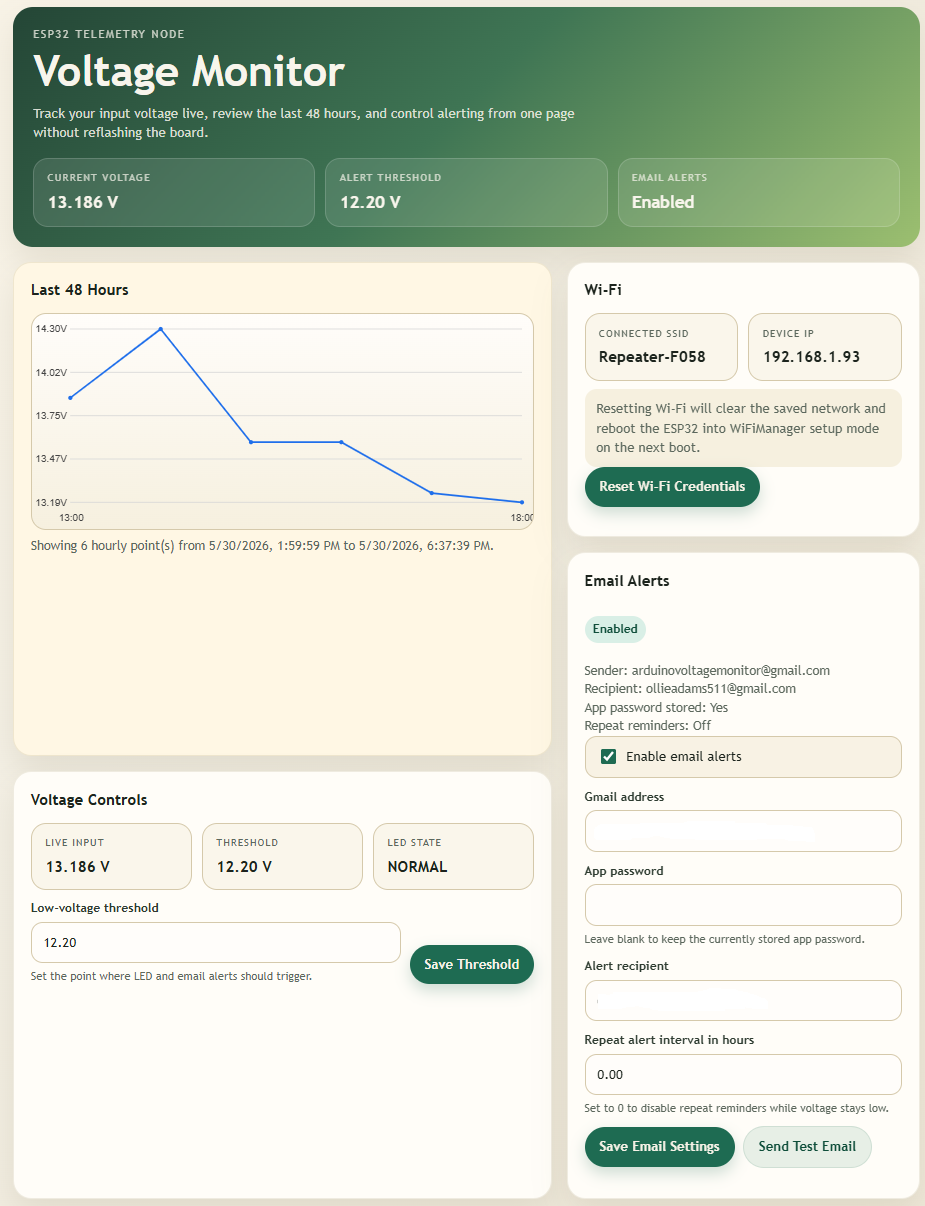
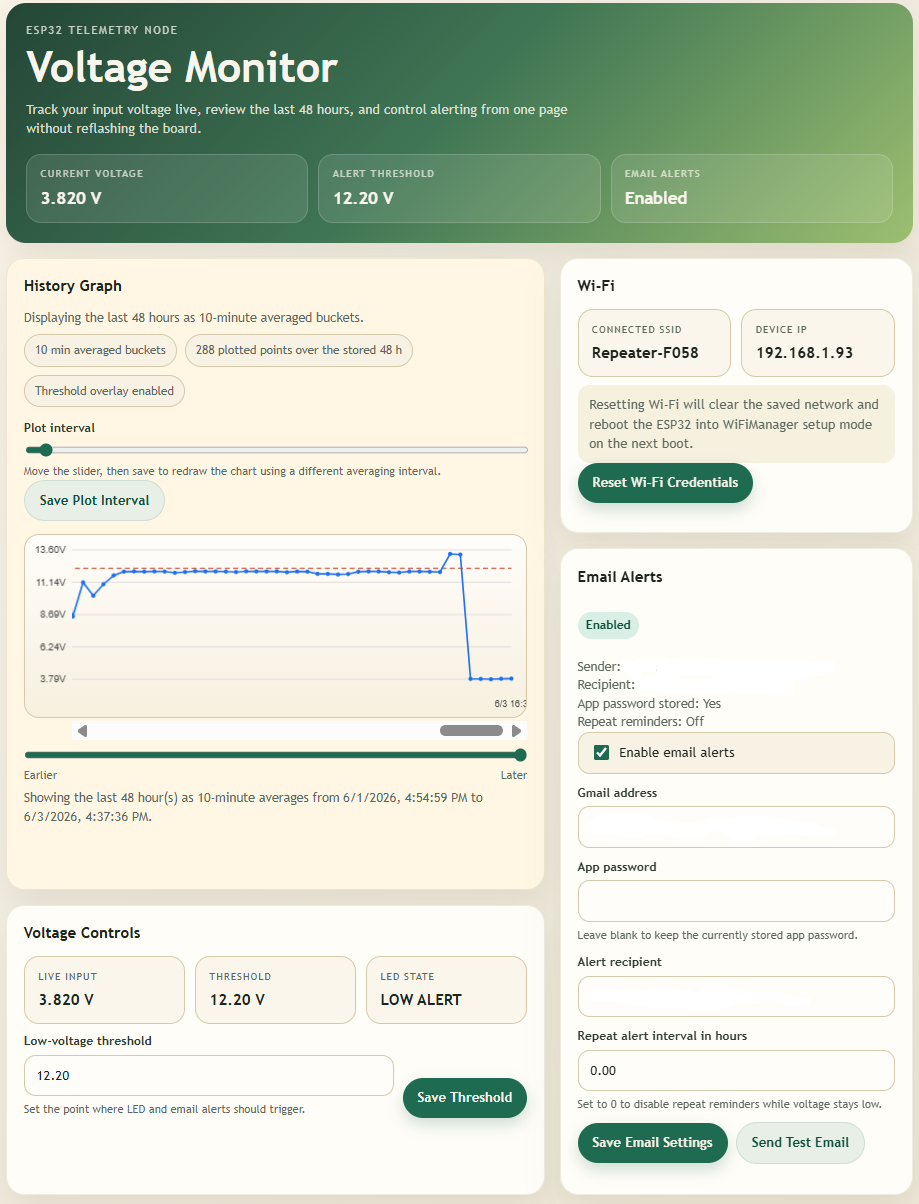
updated todo and how to files for github pages static site

diff --git a/HOWTO_PC_GIT_SYNC.md b/HOWTO_PC_GIT_SYNC.md
@@ -1,0 +1,266 @@
+# How To Set Up PC File Monitoring And Git Upload
+
+This guide describes the simplest practical setup for sending data from the ESP32 to a Windows PC, watching for file changes, and pushing those changes to Git automatically.
+
+## Overview
+
+Recommended flow:
+
+`ESP32 -> HTTP POST -> Windows PC receiver -> data/latest.json -> git commit/push`
+
+Why this approach is better than pushing from the ESP32 directly:
+
+- Git credentials stay on the PC
+- HTTPS and Git complexity stay off the microcontroller
+- The PC can handle retries, batching, validation, and deduping
+- GitHub Pages can read the committed JSON file like any normal static asset
+
+## What Runs On The PC
+
+You need two automation pieces:
+
+1. A receiver process
+Receives voltage data from the ESP32 and writes a local file.
+
+2. A sync process
+Notices file changes and runs Git commands.
+
+These can be two separate processes or one combined app. For simplicity, two small scripts are usually easiest to reason about.
+
+## Suggested Folder Layout
+
+Example inside this repo:
+
+```text
+voltage monitor/
+  data/
+    latest.json
+    history.jsonl
+  pc_tools/
+    receiver.py
+    sync_to_git.ps1
+    start_receiver.ps1
+    start_sync.ps1
+```
+
+Suggested file purposes:
+
+- `data/latest.json`: most recent reading for a static site to fetch
+- `data/history.jsonl`: optional append-only log for debugging or graph generation
+- `receiver.py`: tiny HTTP server that writes incoming data files
+- `sync_to_git.ps1`: watches for changes and commits/pushes them
+
+## Data Format To Receive
+
+Recommended JSON from the ESP32:
+
+```json
+{
+  "timestamp": 1760000000,
+  "voltage": 12.41,
+  "threshold": 11.5,
+  "deviceIp": "192.168.1.50",
+  "deviceName": "esp32-voltage-monitor"
+}
+```
+
+Keep the first version small. You can add graph history later.
+
+## Receiver Setup
+
+Recommended approach:
+
+- Use Python on the PC
+- Run a tiny HTTP server on a fixed local port such as `8787`
+- Accept `POST /upload`
+- Parse JSON
+- Write `data/latest.json`
+- Optionally append one line to `data/history.jsonl`
+
+Receiver requirements:
+
+- reject invalid JSON
+- avoid partial file writes
+- log requests and errors
+- return `200 OK` on success
+- bind to the PC's LAN IP or all interfaces if needed
+
+## File Monitoring And Git Sync
+
+Two good strategies exist.
+
+### Option A: Immediate Watcher
+
+Use a watcher that notices file changes and then:
+
+- waits a short debounce period such as 10 to 30 seconds
+- checks whether the file content actually changed
+- runs `git add data/latest.json`
+- optionally adds `data/history.jsonl`
+- commits with a fixed message
+- pushes to origin
+
+Best when updates are not too frequent.
+
+### Option B: Timed Sync Loop
+
+Run a loop every few minutes that:
+
+- checks whether tracked data files changed
+- commits only when needed
+- pushes only when there is a new commit
+
+Best when the ESP32 may update often and you want fewer commits.
+
+For this project, a timed sync loop every 5 minutes is usually safer than pushing every single update.
+
+## Git Setup On The PC
+
+Before automating pushes, confirm this repo can already push without asking for credentials each time.
+
+Recommended options:
+
+### HTTPS with Git Credential Manager
+
+- install Git for Windows if not already installed
+- ensure Git Credential Manager is enabled
+- run one manual push and complete sign-in once
+
+### SSH
+
+- create an SSH key on the PC
+- add the public key to GitHub
+- switch the repo remote to SSH
+- test a manual push
+
+Whichever method you use, make sure automation can push with no interactive prompt.
+
+## Windows Startup Across Restarts
+
+Because you want this to survive restarts, use Task Scheduler.
+
+### Receiver Startup Task
+
+Create a scheduled task that:
+
+- runs `python receiver.py`
+- triggers `At startup` or `At log on`
+- starts in the repo or `pc_tools` folder
+- runs whether the user is logged in or not if needed
+- restarts on failure if the process exits
+
+### Git Sync Startup Task
+
+Create a second scheduled task that:
+
+- runs `powershell.exe -ExecutionPolicy Bypass -File .\pc_tools\start_sync.ps1`
+- triggers `At startup` or `At log on`
+- starts after a short delay such as 30 to 60 seconds
+- restarts on failure
+
+If the sync is only a periodic script and not a long-running watcher, you can instead create one scheduled task that runs every 5 minutes.
+
+## Recommended Startup Choice
+
+For this project:
+
+- receiver: long-running process started at Windows startup
+- git sync: scheduled every 5 minutes or long-running watcher with debounce
+
+That avoids missing data and keeps commit volume reasonable.
+
+## Networking Notes
+
+The ESP32 must know how to reach the PC.
+
+Best options:
+
+- use the PC's local hostname if your network resolves it reliably
+- or use a reserved LAN IP for the PC from your router
+
+Avoid relying on a random changing PC IP.
+
+Example receiver URL:
+
+```text
+http://YOUR-PC-NAME:8787/upload
+```
+
+or
+
+```text
+http://192.168.1.100:8787/upload
+```
+
+## Reliability Recommendations
+
+- do not push on every one-second measurement
+- upload from the ESP32 every 1 to 5 minutes instead
+- debounce file writes before committing
+- skip commits when content is unchanged
+- keep the local dashboard independent so the monitor still works if the PC is off
+- log receiver errors to a file for troubleshooting
+
+## Security Recommendations
+
+Even on a home LAN, add at least minimal protection.
+
+Suggested first step:
+
+- include a simple shared token in the ESP32 upload request
+- have the PC receiver reject requests with the wrong token
+
+Also:
+
+- do not expose the PC receiver directly to the public internet
+- do not store GitHub personal access tokens in the ESP32
+- keep Git credentials only on the PC
+
+## What The Static Site Can Read
+
+Once the PC pushes the updated file, a static site can fetch something like:
+
+```text
+/data/latest.json
+```
+
+This works well for:
+
+- current voltage
+- threshold
+- last update time
+- online or stale status
+
+If you later want charts, also push a second history file.
+
+## Best Practical First Version
+
+Build the smallest working system first:
+
+1. ESP32 uploads a small JSON payload every 5 minutes
+2. PC receiver writes `data/latest.json`
+3. PC sync task runs every 5 minutes
+4. Sync task commits only when `data/latest.json` changed
+5. Static page reads that JSON file
+
+That is much easier to support than a full live streaming system.
+
+## Manual Test Plan
+
+1. Start the receiver on the PC
+2. Send a test JSON payload manually from the PC or ESP32
+3. Confirm `data/latest.json` updates
+4. Run the sync script manually once
+5. Confirm commit and push succeed
+6. Reboot Windows
+7. Confirm the receiver and sync process start automatically
+8. Send another test payload after reboot
+9. Confirm the repo updates again without manual intervention
+
+## Future Improvements
+
+- append and publish a history file for charting
+- add local retry queueing if GitHub is unavailable
+- generate a `status.json` file with health info
+- batch multiple readings into one commit
+- move from Task Scheduler to a Windows service wrapper if you want a more appliance-like setup

diff --git a/TODO.md b/TODO.md
@@ -1,0 +1,112 @@
+# ESP32 To PC To Git TODO
+
+This file tracks the work needed to move voltage data from the ESP32 to a PC, write it to a local file, and automatically push updates to Git so a static site can read the latest data.
+
+## Goal
+
+Build an automation path like this:
+
+`ESP32 -> PC receiver -> local data file -> git commit/push -> GitHub Pages or other static site`
+
+## Recommended Design
+
+- Use the ESP32 to send JSON to a small HTTP server running on the PC
+- Have the PC server write a local file such as `data/latest.json`
+- Use a watcher or timed sync script on the PC to detect changes
+- Commit and push from the PC, not from the ESP32
+- Start the receiver and sync process automatically after Windows restarts
+
+## Phase 1: Define Data Format
+
+- Decide the exact JSON payload the ESP32 should send
+- Include at least:
+  - timestamp
+  - current voltage
+  - alert threshold
+  - device IP or device name
+- Decide whether to send only the latest reading or also recent history
+- Decide how often the ESP32 should upload data
+
+## Phase 2: PC Receiver
+
+- Create a small local HTTP receiver on the PC
+- Accept `POST` requests from the ESP32
+- Validate incoming JSON
+- Write the payload to a predictable file path such as `data/latest.json`
+- Optionally append a log file such as `data/history.jsonl`
+- Return a simple success response to the ESP32
+
+## Phase 3: File Change Handling
+
+- Detect when `data/latest.json` changes
+- Avoid committing unchanged or duplicate content
+- Add optional debouncing so rapid updates do not create too many commits
+- Decide whether to push:
+  - immediately on change
+  - on a fixed interval such as every 5 minutes
+  - only when voltage changes by a meaningful amount
+
+## Phase 4: Git Automation
+
+- Confirm the repo can push without manual login prompts
+- Configure Git Credential Manager or SSH keys on the PC
+- Write an automated sync script that runs:
+  - `git add`
+  - `git commit`
+  - `git push`
+- Use a safe commit message format such as `Update voltage data`
+- Make the script exit cleanly when there is nothing new to commit
+
+## Phase 5: Windows Startup Automation
+
+- Make sure the PC receiver starts automatically after reboot
+- Make sure the Git sync watcher starts automatically after reboot
+- Choose one startup method:
+  - Task Scheduler at startup
+  - Task Scheduler at logon
+  - NSSM or Windows service wrapper for long-running processes
+- Configure restart behavior if the receiver crashes
+
+## Phase 6: ESP32 Firmware Changes
+
+- Add HTTP client support to the sketch
+- Add configuration for the PC receiver URL
+- Add upload interval control
+- Send JSON to the PC receiver
+- Handle timeout or network failure without blocking the main monitor loop
+- Keep local dashboard and email alerts working even if the PC is offline
+
+## Phase 7: Static Site Consumption
+
+- Point the static page at the committed JSON file in the repo
+- Confirm GitHub Pages or other static host can read the file over HTTPS
+- Decide whether the static page shows:
+  - only latest voltage
+  - last update time
+  - threshold
+  - recent history graph
+
+## Reliability Checks
+
+- Test with the PC turned off
+- Test with the PC IP address changed
+- Test with GitHub temporarily unreachable
+- Test with invalid JSON from the ESP32
+- Test restart behavior after a Windows reboot
+- Test duplicate uploads to confirm the repo does not get spammed with noise commits
+
+## Nice To Have
+
+- Add a heartbeat field so the static site can show whether the device is stale
+- Add batching so multiple readings become one commit
+- Add local log rotation on the PC
+- Add a second file for graph history instead of only `latest.json`
+- Add basic authentication or a shared token between ESP32 and the PC receiver
+
+## Completion Criteria
+
+- ESP32 can upload voltage data to the PC reliably
+- The PC updates a local JSON file automatically
+- Changes are committed and pushed to Git automatically
+- The automation survives Windows restarts
+- A static page can read the pushed file without talking directly to the ESP32